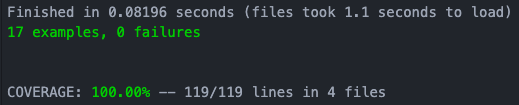
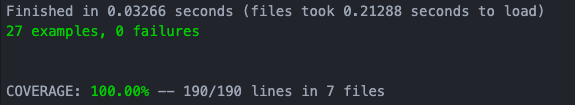
updated README

Changed region(s): [[0.0, 0.0286, 0.9865, 0.1714], [0.0, 0.8, 0.7399, 0.9429], [0.0, 0.2286, 0.4008, 0.3714]]

diff --git a/README.md b/README.md
@@ -20,21 +20,23 @@ The require statements below must be entered for the program to work, the rest i
 
 ```
 2.7.0 :001 > require './lib/account.rb'
+
+2.7.0 :002 > require './lib/account_printer.rb'
  => true
-2.7.0 :002 > require './lib/account_tools.rb'
+2.7.0 :003 > require './lib/transaction.rb'
  => true
-2.7.0 :003 > my_account = Account.new
- => #<Account:0x00007fe23c3a4690 @account_tools=#<AccountTools:0x00007fe23c3a4640 @balance=0, @transactions=[]>>
-2.7.0 :004 > my_account.add(1000)
- => [[1000, "12/01/2021", 1000]]
-2.7.0 :005 > my_account.withdraw(500)
- => [[1000, "12/01/2021", 1000], [-500, "12/01/2021", 500]]
-2.7.0 :006 > my_account.balance
+2.7.0 :004 > my_account = Account.new
+ => #<Account:0x00007f91d...
+2.7.0 :005 > my_account.add(1000)
+ => [#<Transaction:0x00007...
+2.7.0 :006 > my_account.withdraw(500)
+ => [#<Transaction:0x00007...
+2.7.0 :007 > my_account.balance
  => 500
-2.7.0 :007 > my_account.statement
+2.7.0 :008 > my_account.statement
 date || credit || debit || balance
-12/01/2021 || || 500.00 || 500.00
-12/01/2021 || 1000.00 || || 1000.00
+13/01/2021 || 1000.00 || || 1000.00
+13/01/2021 || || 500.00 || 500.00
  => nil
 ```
 
@@ -68,7 +70,7 @@ This was the class diagram which I created when planning, in the full program th
 
 ## Code quality
 
-I have written 17 Rspec tests, covering 100% of the code. To run the tests, navigate into the bank_practice_tech_test directory from your terminal and enter `rspec`.  
+I have written 27 Rspec tests, covering 100% of the code as well as several feature tests to prove the program works as a whole. To run the tests, navigate into the bank_practice_tech_test directory from your terminal and enter `rspec`.  
 
 ![Test coverage](./images/test_coverage.png)
 
@@ -76,5 +78,6 @@ The program is written to account for the following edge cases, with test covera
 * Negative withdrawals and deposits are blocked.  
 * Withdrawals that would take the account below 0 balance are blocked.  
 * Invalid dates given for transactions are blocked.
+* Transactions will be sorted into correct order automatically.
 
 I have ensured that the code is readable and understandable by following ruby conventions - tested using the RuboCop linter.
